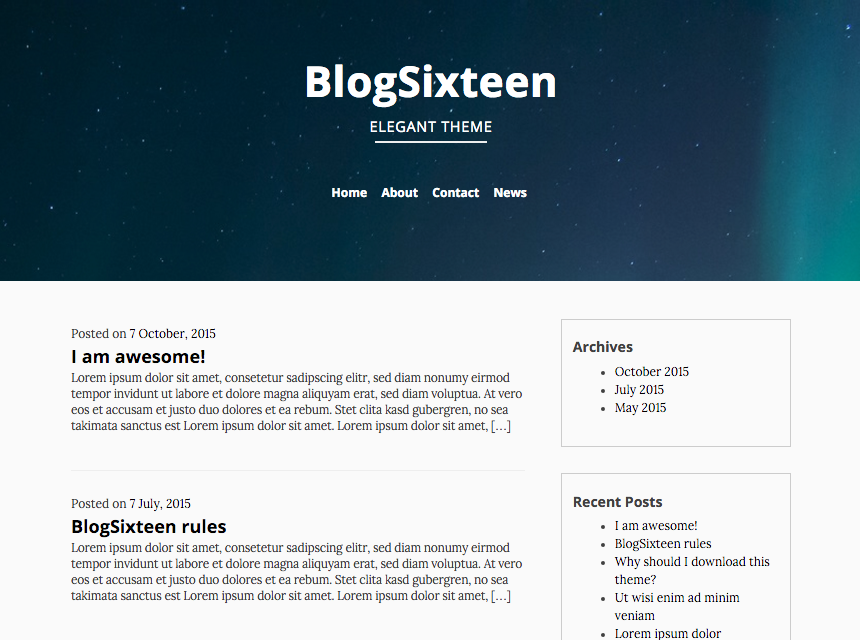
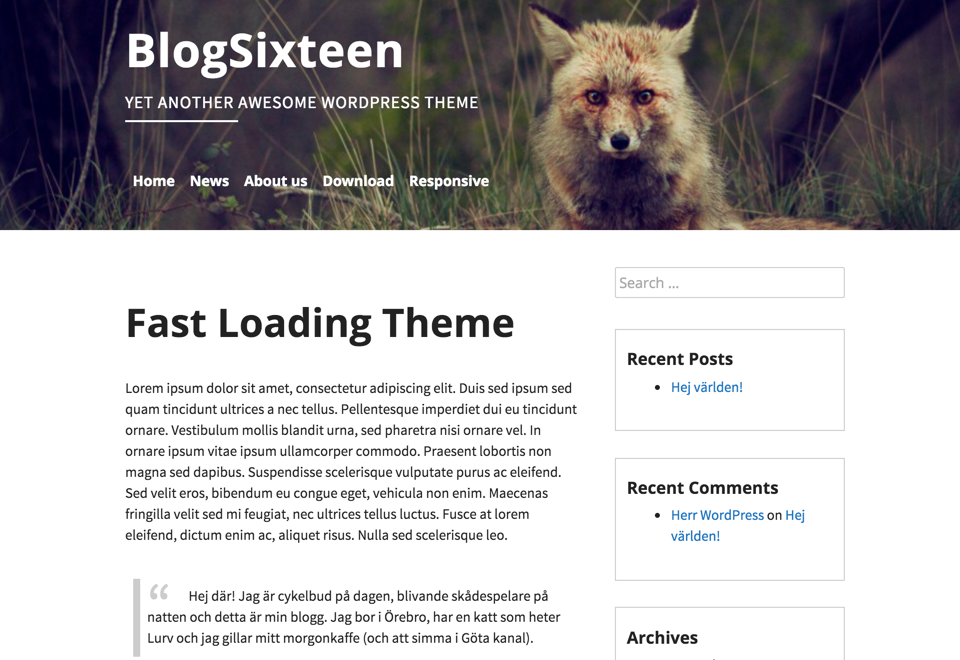
Added update for 1.4

diff --git a/style.css b/style.css
@@ -2,7 +2,7 @@
 Theme Name: BlogSixteen
 Author: Marcus Tisater
 Author URI: http://www.marcustisater.se
-Description: Theme based on underscores for a bloggish style.
+Description: BlogSixteen is the new fresh look for a blogish style. Customise it to look whatever you would like. Have fun!
 Version: 1.1.2
 License: GNU General Public License v2 or later
 License URI: http://www.gnu.org/licenses/gpl-2.0.html
@@ -417,7 +417,6 @@ a:hover, a:active {
 
 .main-navigation {
 	margin-bottom: 1.5em;
-	text-align: center;
 }
 
 .main-navigation ul {
@@ -861,7 +860,6 @@ embed, iframe, object {
 	width: 90%;
 	max-width: 960px;
 	margin: 0 auto;
-	text-align: center;
 }
 
 .main-navigation {
@@ -964,7 +962,6 @@ embed, iframe, object {
 
 	.site-branding {
 		padding: 40px 0 0 0;
-		text-align: center;
 	}
 
 	.secondary-navigation a {
@@ -1037,8 +1034,8 @@ embed, iframe, object {
 .site-description:after {
 	content: '';
 	display: block;
-	margin: 5px auto;
-	border: 1px solid #eee;
+	margin: 7px 0;
+	border: 2px solid #eee;
 	max-width: 150px;
 }
 

diff --git a/functions.php b/functions.php
@@ -73,7 +73,7 @@ function blogsixteen_setup() {
 
 	// Set up the WordPress core custom background feature.
 	add_theme_support( 'custom-header', apply_filters( 'blogsixteen_custom_header_args', array(
-		'default-image' => get_template_directory_uri() . '/images/header.jpeg',
+		'default-image' => get_template_directory_uri() . '/images/header.jpg',
 		'width'         => 1200,
 		'height'        => 350,
 		'uploads'       => true,
@@ -117,7 +117,7 @@ add_action( 'widgets_init', 'blogsixteen_widgets_init' );
  * Enqueue scripts and styles.
  */
 function blogsixteen_scripts() {
-	wp_enqueue_style( 'blogsixteen-google-fonts', 'https://fonts.googleapis.com/css?family=Open+Sans:400,700,300|Source+Sans+Pro:400,700,300,700italic,400italic', false ); 
+	wp_enqueue_style( 'blogsixteen-google-fonts', 'https://fonts.googleapis.com/css?family=Open+Sans:400,700,300|Source+Sans+Pro:400,700,300,700italic,400italic', false );
 
 	wp_enqueue_style( 'blogsixteen-style', get_stylesheet_uri() );
 
